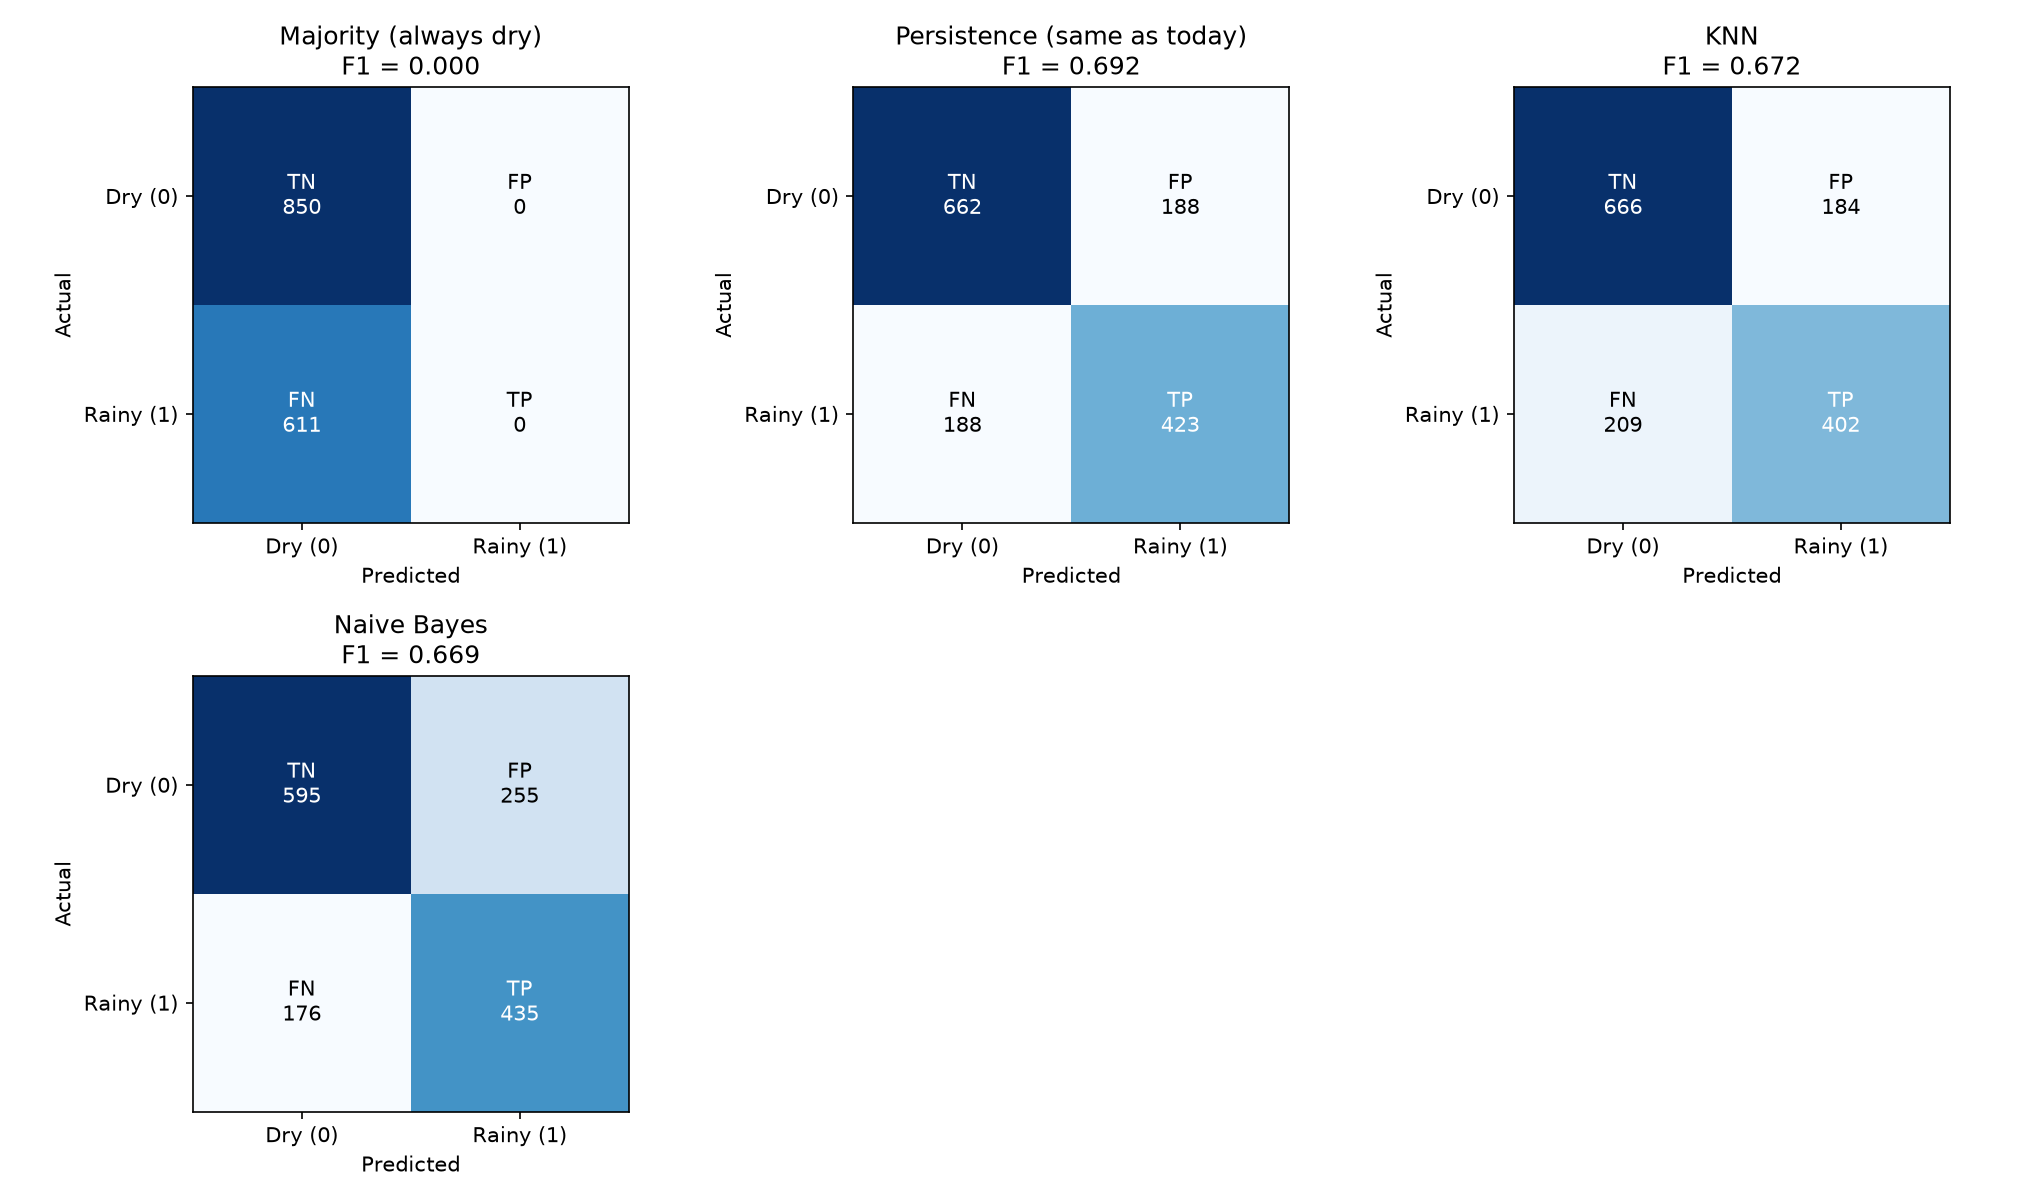
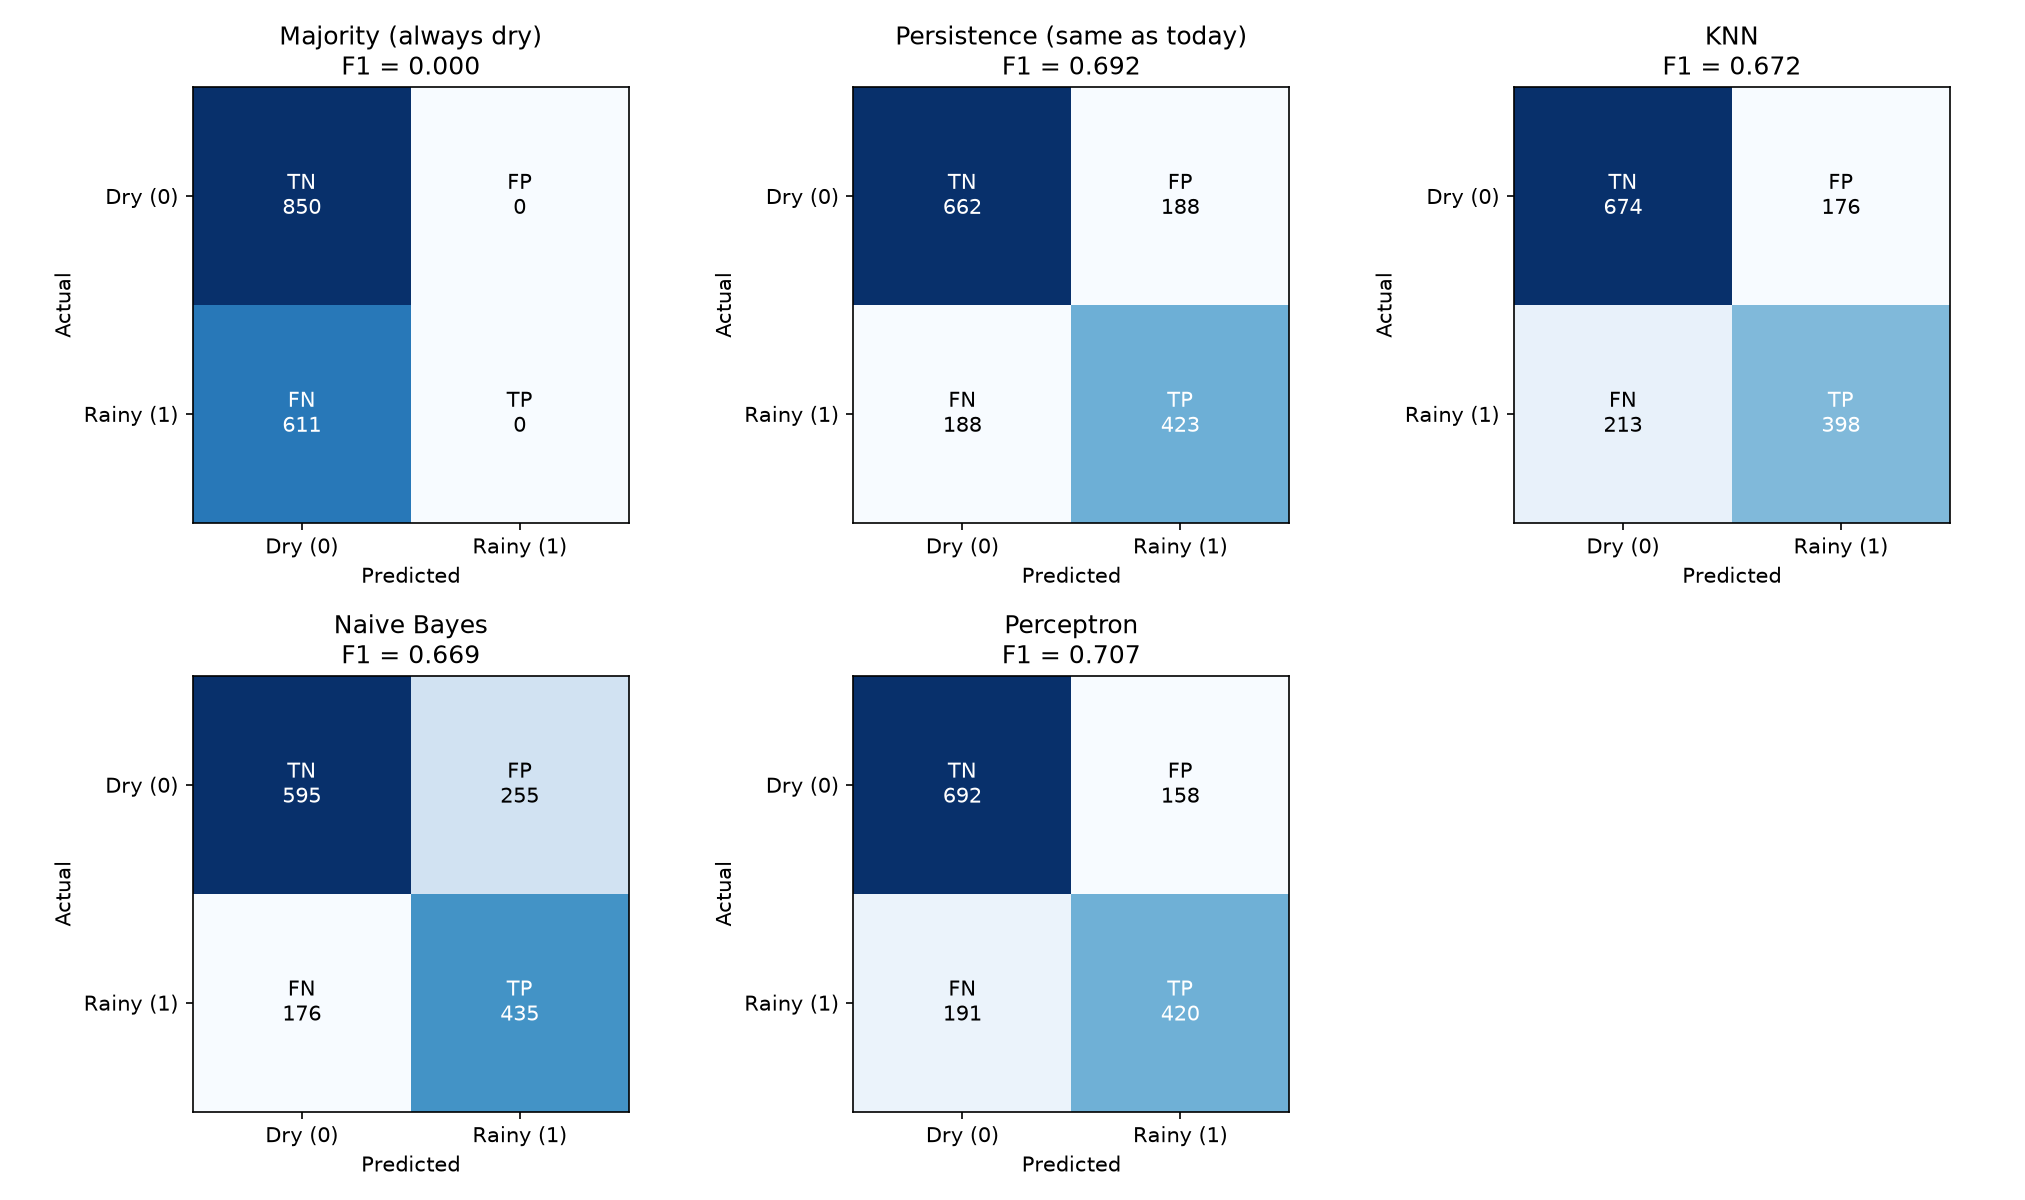
Use one Perceptron and add it to the results (#24)

diff --git a/src/run.py b/src/run.py
@@ -20,16 +20,11 @@ from baselines import majority_predict, persistence_predict
 from knn import KNNClassifier
 from metrics import all_metrics
 from naive_bayes import NaiveBayesClassifier
+from perceptron import AveragedPerceptron
 from split_scale import TRAIN_END_YEAR, VAL_END_YEAR, make_splits
 
 RESULTS_DIR = os.path.join(os.path.dirname(os.path.abspath(__file__)), "..", "results")
 METHODS = ["majority", "persistence", "knn", "naive_bayes", "perceptron"]
-
-
-def perceptron_available():
-    # The Perceptron comes from issue #24. Until src/perceptron.py is on main,
-    # the runner skips it instead of crashing.
-    return os.path.exists(os.path.join(os.path.dirname(os.path.abspath(__file__)), "perceptron.py"))
 
 
 def run_method(method, args, splits):
@@ -60,18 +55,12 @@ def run_method(method, args, splits):
         return model.predict(data["X_val"]), settings
 
     if method == "perceptron":
-        # Issue #24 supplies an Averaged Perceptron, while Issue #26 tunes
-        # epochs and learning rate. Use the same averaged implementation as
-        # the tuning script so the tuned settings are runnable here.
-        from tune import averaged_perceptron_fit_predict
         data = splits["zscore"]
-        pred = averaged_perceptron_fit_predict(
-            data["X_train"], data["y_train"], data["X_val"],
-            epochs=args.epochs, lr=args.lr, seed=args.seed,
-        )
+        model = AveragedPerceptron(n_epochs=args.epochs, seed=args.seed, lr=args.lr)
+        model.fit(data["X_train"], data["y_train"])
         settings = {"epochs": args.epochs, "learning_rate": args.lr,
                     "seed": args.seed, "scaling": "zscore"}
-        return pred, settings
+        return model.predict(data["X_val"]), settings
 
     raise ValueError(f"unknown method: {method}")
 
@@ -110,12 +99,6 @@ def main():
     args = parser.parse_args()
 
     methods = list(METHODS) if args.method == "all" else [args.method]
-    if "perceptron" in methods and not perceptron_available():
-        if args.method == "perceptron":
-            sys.exit("src/perceptron.py is not on main yet (issue #24).")
-        print("Skipping the Perceptron: src/perceptron.py is not on main yet (issue #24).")
-        methods.remove("perceptron")
-
     splits = {
         "minmax": make_splits(save=False, scaling="minmax"),
         "zscore": make_splits(save=False, scaling="zscore"),

diff --git a/src/tune.py b/src/tune.py
@@ -15,6 +15,7 @@ sys.path.insert(0, os.path.dirname(os.path.abspath(__file__)))
 from split_scale import make_splits
 from knn import KNNClassifier
 from naive_bayes import NaiveBayesClassifier
+from perceptron import AveragedPerceptron
 from metrics import all_metrics
 
 ROOT=os.path.dirname(os.path.dirname(os.path.abspath(__file__)))
@@ -26,21 +27,6 @@ KNN_GRID=list(product([21,41,61,81],[1.0,2.0,3.0]))
 NB_GRID=list(product([5,8,10,12],[0.1,0.5,1.0,2.0]))
 PERCEPTRON_GRID=list(product([5,10,20,30,50],[0.01,0.05,0.1,0.5]))
 SEED=42
-
-
-def averaged_perceptron_fit_predict(X_train,y_train,X_val,epochs,lr,seed=SEED):
-    """From-scratch averaged binary Perceptron with tunable learning rate."""
-    X=np.asarray(X_train,dtype=float); y=np.where(np.asarray(y_train)==1,1.0,-1.0)
-    w=np.zeros(X.shape[1]); b=0.0; w_sum=np.zeros_like(w); b_sum=0.0; count=0
-    rng=np.random.default_rng(seed)
-    for _ in range(epochs):
-        for i in rng.permutation(len(y)):
-            pred=1.0 if np.dot(w,X[i])+b>=0 else -1.0
-            if pred != y[i]:
-                w += lr*y[i]*X[i]; b += lr*y[i]
-            w_sum += w; b_sum += b; count += 1
-    w_avg=w_sum/count; b_avg=b_sum/count
-    return (np.asarray(X_val).dot(w_avg)+b_avg>=0).astype(np.int32)
 
 
 def evaluate(y,pred,method,settings,elapsed):
@@ -97,7 +83,8 @@ def main():
     rows=[]
     for epochs,lr in PERCEPTRON_GRID:
         start=time.perf_counter()
-        pred=averaged_perceptron_fit_predict(zs["X_train"],zs["y_train"],zs["X_val"],epochs,lr)
+        model=AveragedPerceptron(n_epochs=epochs,seed=SEED,lr=lr).fit(zs["X_train"],zs["y_train"])
+        pred=model.predict(zs["X_val"])
         rows.append(evaluate(y_val,pred,"perceptron",{"epochs":epochs,"learning_rate":lr,"seed":SEED,"scaling":"zscore"},time.perf_counter()-start))
     best=choose_best(rows);best_by_method["perceptron"]=best;all_rows+=rows
     save_csv(os.path.join(TUNE_DIR,"perceptron_tuning.csv"),rows)

diff --git a/src/perceptron.py b/src/perceptron.py
@@ -74,6 +74,9 @@ class AveragedPerceptron:
     ----------
     n_epochs : int
         Number of passes over the training data.
+    lr : float
+        Learning rate, the size of each weight update. The weights start at
+        zero, so it only rescales them and does not change the predictions.
     seed : int
         Random seed for epoch shuffling (ensures reproducibility).
 
@@ -85,8 +88,9 @@ class AveragedPerceptron:
         Final averaged bias term (set after fit).
     """
 
-    def __init__(self, n_epochs: int = 10, seed: int = 42):
+    def __init__(self, n_epochs: int = 10, seed: int = 42, lr: float = 0.01):
         self.n_epochs = n_epochs
+        self.lr       = lr
         self.seed     = seed
         self.w        = None
         self.b        = None
@@ -127,8 +131,8 @@ class AveragedPerceptron:
 
                 # Update only on misclassification
                 if y_pred_pm != y_pm[i]:
-                    w = w + y_pm[i] * X[i]
-                    b = b + y_pm[i]
+                    w = w + self.lr * y_pm[i] * X[i]
+                    b = b + self.lr * y_pm[i]
 
                 # Accumulate after every sample (not just on mistakes)
                 w_sum = w_sum + w
@@ -138,6 +142,7 @@ class AveragedPerceptron:
         # Averaged weights
         self.w = w_sum / count
         self.b = b_sum / count
+        return self
 
     def predict(self, X: np.ndarray) -> np.ndarray:
         """
@@ -206,4 +211,4 @@ if __name__ == "__main__":
     model2.fit(X_train_z, y_train)
     y_pred2 = model2.predict(X_val_z)
     same = np.array_equal(y_pred_val, y_pred2)
-    print(f"Same seed gives same result: {'YES ✓' if same else 'NO ✗'}")
+    print(f"Same seed gives same result: {'Yes' if same else 'No'}")

diff --git a/README.md b/README.md
@@ -23,7 +23,9 @@ Run these from the project root. Each method trains on 2001-2017 and prints accu
 |---|---|---|
 | `python src/knn.py` | `--k 61 --p 2` (z-scores from the training years) | about 5 s |
 | `python src/naive_bayes.py` | `--bins 10 --smoothing 1` (equal-count bins from the training years) | about 1 s |
-| `python src/run.py` | every method with the settings above; saves `results/<method>.json` | about 5 s |
+| `python src/perceptron.py` | `--epochs 10 --seed 42` (z-scores from the training years) | about 1 s |
+| `python src/tune.py` | tries 48 settings on the validation years; saves the scores to `results/tuning/` | about 1 min |
+| `python src/run.py` | every method with the tuned settings from `results/tuning/` (KNN `--k 81`, Naive Bayes `--smoothing 0.1`); saves `results/<method>.json` | about 5 s |
 | `python src/compare.py` | reads `results/*.json`, prints the comparison table, saves the table and graphs (F1 bars, all metrics, confusion matrices) to `figures/` | about 2 s |
 | `python -m unittest tests.test_data_loader tests.test_knn tests.test_compare` | unit tests | under 3 s |
 

diff --git a/figures/comparison_table.md b/figures/comparison_table.md
@@ -4,5 +4,6 @@
 |---|---:|---:|---:|---:|---:|
 | Majority (always dry) | 0.5818 | 0.0000 | 0.0000 | 0.0000 | 0.000 |
 | Persistence (same as today) | 0.7426 | 0.6923 | 0.6923 | 0.6923 | 0.000 |
-| KNN | 0.7310 | 0.6860 | 0.6579 | 0.6717 | 1.538 |
-| Naive Bayes | 0.7050 | 0.6304 | 0.7119 | 0.6687 | 0.035 |
+| KNN | 0.7337 | 0.6934 | 0.6514 | 0.6717 | 3.748 |
+| Naive Bayes | 0.7050 | 0.6304 | 0.7119 | 0.6687 | 0.068 |
+| Perceptron | 0.7611 | 0.7266 | 0.6874 | 0.7065 | 0.239 |
